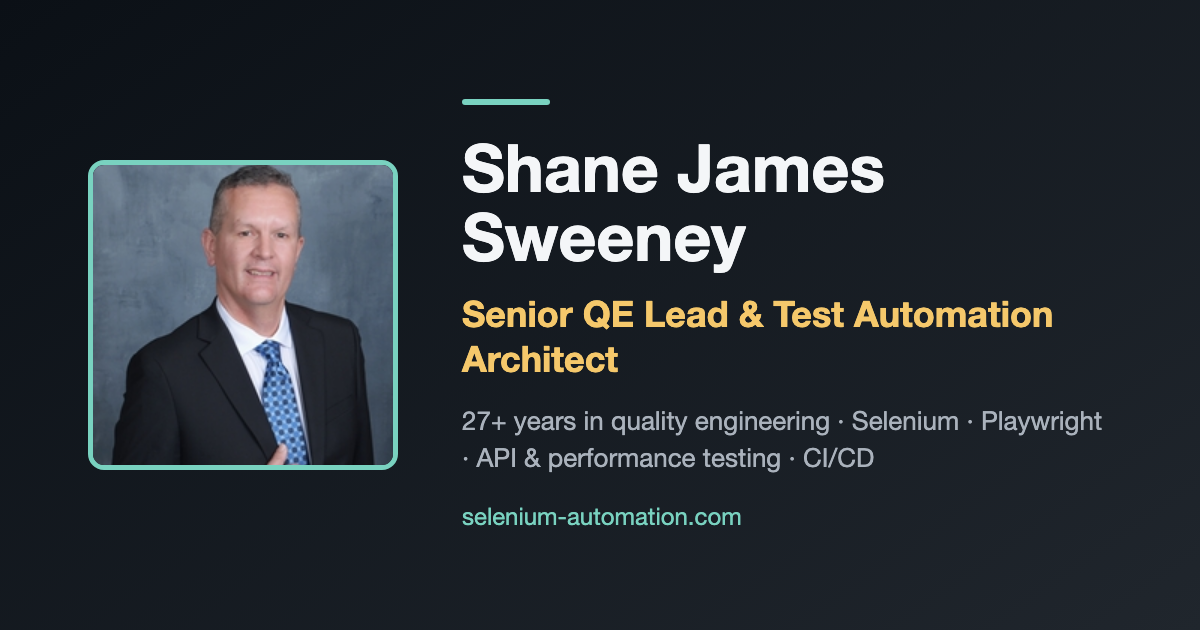
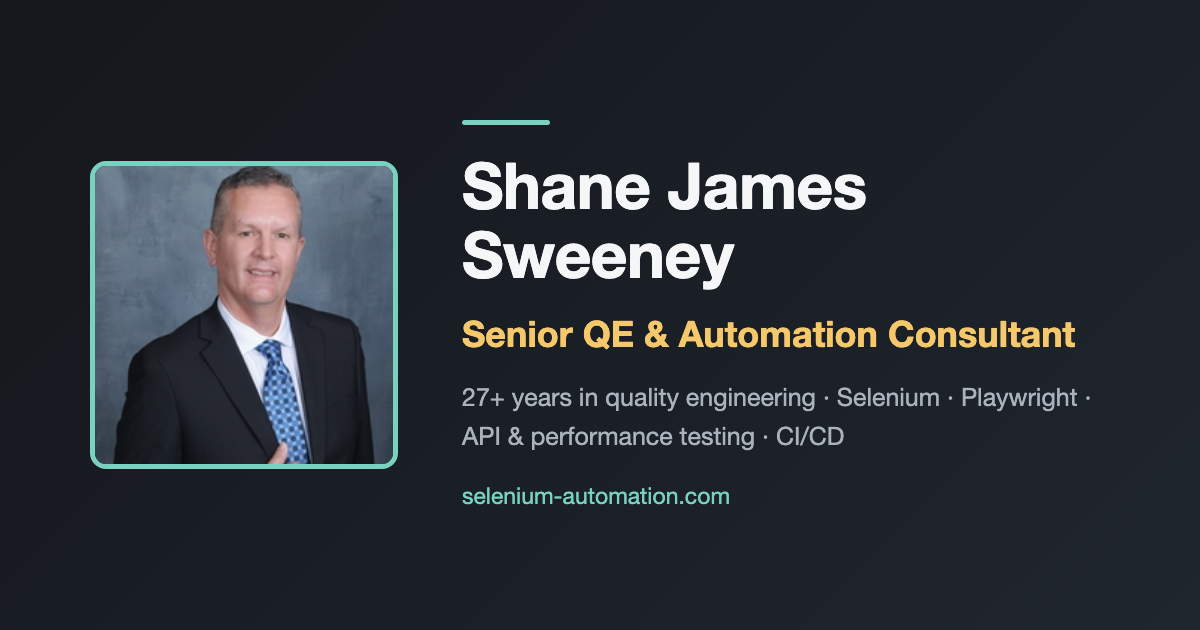
Change headline to Senior QE & Automation Consultant
Replaces "Senior QE Lead & Test Automation Architect" in the home
headline (content/profile.json), page title, meta/Open Graph/Twitter
tags, manifest, README and tests, and regenerates the link-preview
image. The image now has a committed source (scripts/og-image) and an
`npm run og-image` script to re-render it.

Changed region(s): [[0.37, 0.1508, 0.925, 0.8444], [0.0617, 0.2413, 0.3083, 0.754]]

diff --git a/index.html b/index.html
@@ -7,25 +7,25 @@
     <meta name="theme-color" content="#171a1f" />
     <meta
       name="description"
-      content="Shane James Sweeney - Senior QE Lead and Test Automation Architect with 27+ years in quality engineering, Selenium and Playwright automation, API and performance testing, and CI/CD."
+      content="Shane James Sweeney - Senior QE and Automation Consultant with 27+ years in quality engineering, Selenium and Playwright automation, API and performance testing, and CI/CD."
     />
     <link rel="canonical" href="https://selenium-automation.com/home" />
     <meta property="og:type" content="profile" />
     <meta property="og:site_name" content="Shane James Sweeney" />
-    <meta property="og:title" content="Shane James Sweeney - Senior QE Lead & Test Automation Architect" />
+    <meta property="og:title" content="Shane James Sweeney - Senior QE & Automation Consultant" />
     <meta property="og:description" content="27+ years in quality engineering: automation architecture, Selenium, Playwright, API and performance testing, and CI/CD for banking, healthcare and enterprise software." />
     <meta property="og:url" content="https://selenium-automation.com/home" />
     <meta property="og:image" content="https://selenium-automation.com/og-image.png" />
     <meta property="og:image:width" content="1200" />
     <meta property="og:image:height" content="630" />
-    <meta property="og:image:alt" content="Shane James Sweeney, Senior QE Lead and Test Automation Architect" />
+    <meta property="og:image:alt" content="Shane James Sweeney, Senior QE and Automation Consultant" />
     <meta name="twitter:card" content="summary_large_image" />
-    <meta name="twitter:title" content="Shane James Sweeney - Senior QE Lead & Test Automation Architect" />
+    <meta name="twitter:title" content="Shane James Sweeney - Senior QE & Automation Consultant" />
     <meta name="twitter:description" content="27+ years in quality engineering: automation architecture, Selenium, Playwright, API and performance testing, and CI/CD." />
     <meta name="twitter:image" content="https://selenium-automation.com/og-image.png" />
     <link rel="apple-touch-icon" href="/apple-touch-icon.png" />
     <link rel="manifest" href="/manifest.json" />
-    <title>Shane James Sweeney | Senior QE Lead & Test Automation Architect</title>
+    <title>Shane James Sweeney | Senior QE & Automation Consultant</title>
   </head>
   <body>
     <noscript>You need to enable JavaScript to run this app.</noscript>

diff --git a/scripts/og-image/og-image.html b/scripts/og-image/og-image.html
@@ -1,0 +1,43 @@
+<!DOCTYPE html>
+<!-- Source for public/og-image.png, the 1200x630 link-preview card. Render with `npm run og-image`. -->
+<html lang="en">
+  <head>
+    <meta charset="utf-8" />
+    <style>
+      * { box-sizing: border-box; margin: 0; }
+      html, body { width: 1200px; height: 630px; }
+      body {
+        display: flex;
+        align-items: center;
+        gap: 64px;
+        padding: 0 90px;
+        background: linear-gradient(135deg, #14171c 0%, #1b2027 60%, #20262d 100%);
+        color: #f4f6f8;
+        font-family: 'Helvetica Neue', Helvetica, Arial, sans-serif;
+      }
+      .photo {
+        flex: none;
+        width: 308px;
+        height: 308px;
+        border: 5px solid #79d2c0;
+        border-radius: 16px;
+        object-fit: cover;
+      }
+      .accent { width: 88px; height: 5px; margin-bottom: 26px; border-radius: 3px; background: #79d2c0; }
+      h1 { font-size: 64px; line-height: 1.08; font-weight: 700; letter-spacing: -0.5px; }
+      .headline { margin-top: 22px; color: #f5c86b; font-size: 36px; line-height: 1.25; font-weight: 700; }
+      .tagline { margin-top: 22px; color: #aab2bc; font-size: 25px; line-height: 1.55; }
+      .domain { margin-top: 26px; color: #79d2c0; font-size: 23px; }
+    </style>
+  </head>
+  <body>
+    <img class="photo" src="../../src/assets/Shane.jpg" alt="" />
+    <div>
+      <div class="accent"></div>
+      <h1>Shane James<br />Sweeney</h1>
+      <p class="headline">Senior QE &amp; Automation Consultant</p>
+      <p class="tagline">27+ years in quality engineering · Selenium · Playwright · API &amp; performance testing · CI/CD</p>
+      <p class="domain">selenium-automation.com</p>
+    </div>
+  </body>
+</html>

diff --git a/e2e/content.spec.ts b/e2e/content.spec.ts
@@ -3,7 +3,7 @@ import { expect, test } from './fixtures';
 test.describe('home page', () => {
   test('shows the headline and outbound profile links', async ({ page }) => {
     await page.goto('/home');
-    await expect(page.getByText('Senior QE Lead & Test Automation Architect')).toBeVisible();
+    await expect(page.getByText('Senior QE & Automation Consultant')).toBeVisible();
 
     const linkedIn = page.getByRole('link', { name: 'LinkedIn', exact: true });
     await expect(linkedIn).toHaveAttribute('href', 'https://linkedin.com/in/shane-sweeney-37a934135');
@@ -16,8 +16,8 @@ test.describe('home page', () => {
 
   test('has search and social preview metadata', async ({ page, request }) => {
     await page.goto('/home');
-    await expect(page).toHaveTitle('Shane James Sweeney | Senior QE Lead & Test Automation Architect');
-    await expect(page.locator('meta[name="description"]')).toHaveAttribute('content', /Senior QE Lead/);
+    await expect(page).toHaveTitle('Shane James Sweeney | Senior QE & Automation Consultant');
+    await expect(page.locator('meta[name="description"]')).toHaveAttribute('content', /Senior QE and Automation Consultant/);
 
     const ogImage = await page.locator('meta[property="og:image"]').getAttribute('content');
     expect(ogImage).toMatch(/\/og-image\.png$/);

diff --git a/backend/src/test/java/com/aboutshane/contactapi/content/ContentControllerTest.java b/backend/src/test/java/com/aboutshane/contactapi/content/ContentControllerTest.java
@@ -33,7 +33,7 @@ class ContentControllerTest {
     void profileHasTheHeadlineAndStrengths() throws Exception {
         mvc.perform(get("/api/content/profile"))
                 .andExpect(jsonPath("$.name").value("Shane James Sweeney"))
-                .andExpect(jsonPath("$.headline").value("Senior QE Lead & Test Automation Architect"))
+                .andExpect(jsonPath("$.headline").value("Senior QE & Automation Consultant"))
                 .andExpect(jsonPath("$.strengths", hasSize(15)))
                 .andExpect(jsonPath("$.highlights", hasSize(5)));
     }

diff --git a/README.md b/README.md
@@ -3,7 +3,7 @@
 [![CI](https://github.com/shane24sweeney/aboutshane/actions/workflows/ci.yml/badge.svg)](https://github.com/shane24sweeney/aboutshane/actions/workflows/ci.yml)
 [![Production smoke](https://github.com/shane24sweeney/aboutshane/actions/workflows/production-smoke.yml/badge.svg)](https://github.com/shane24sweeney/aboutshane/actions/workflows/production-smoke.yml)
 
-Portfolio site for Shane James Sweeney, Senior QE Lead and Test Automation Architect.
+Portfolio site for Shane James Sweeney, Senior QE and Automation Consultant.
 Live at **[selenium-automation.com](https://selenium-automation.com)**.
 
 The site is small, but it is built and tested the way I build production systems: typed code,
